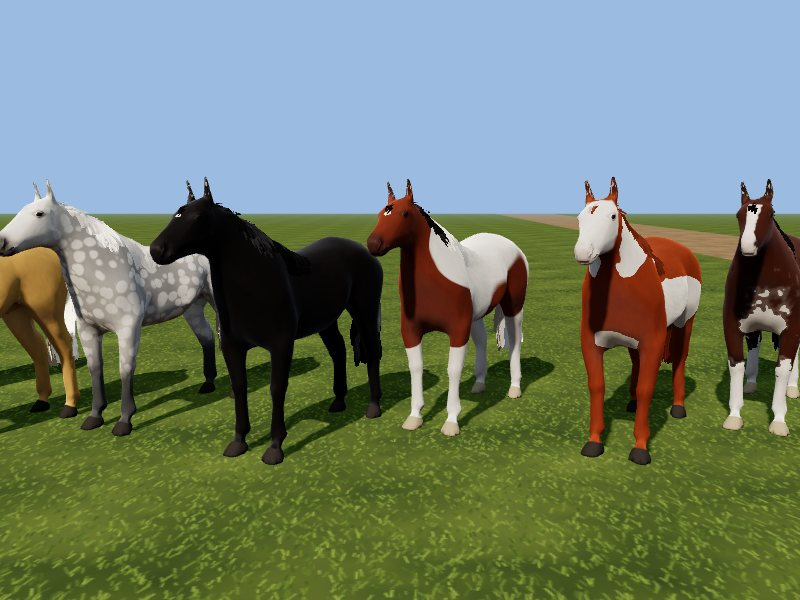
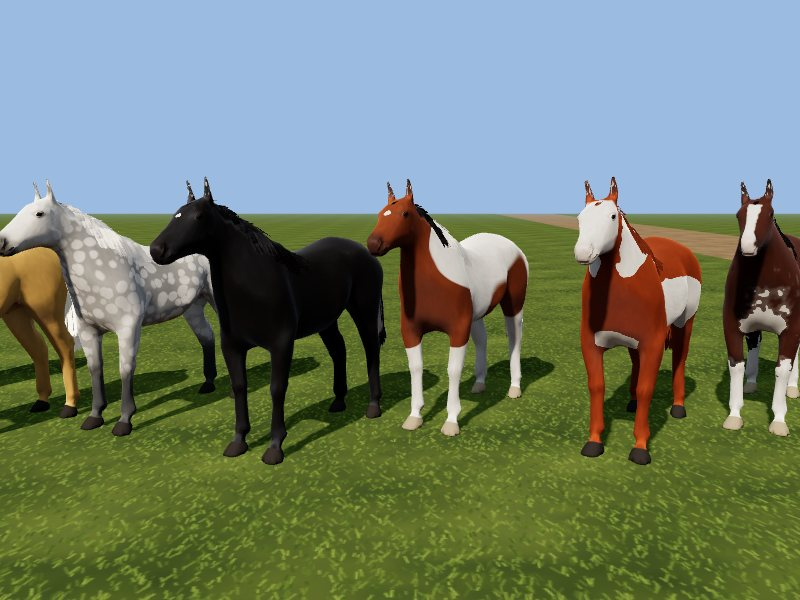
Horse Lab: soft-edged hair that really blends (alpha-to-coverage now works), a rooted mane, a full tail held off the rump, a forelock clear of the markings
Claude-Session: https://claude.ai/code/session_013cjWkL4PLa5o6fvGQ3D2Bo

diff --git a/mathwood-valley/labs/horse/hair.js b/mathwood-valley/labs/horse/hair.js
@@ -15,15 +15,17 @@ import * as THREE from 'three';
 import { COMMON, LIGHT_HOOK } from './coat.js';
 
 export const HAIR = {
-  // the mane: unbroken from just behind the ears to the withers, shortest at the poll and longest mid-neck, most of it
-  // down the near (left) side and some over to the far side, the roots sunk under the skin of the crest
-  mane: { cards: 28, rows: 6, length: 0.42, width: [0.11, 0.12], lift: [-0.012, 0.03], farShare: 0.12 },
-  crest: { cards: 12, rows: 3, length: 0.08, width: [0.09, 0.09], lift: [-0.01, 0.012] },   // a short fringe on the far side
-  forelock: { cards: 4, rows: 5, length: 0.2, width: [0.05, 0.014], lift: [-0.006, 0.008] },   // tapered, to about eye level, lying on the forehead
-  // the tail: a cone from the dock to the middle of the hind cannons, crossed strips through its middle and a fan round it
-  tail: { cards: 18, crossed: 3, rows: 9, end: 0.32, width: [0.06, 0.17], radius: [0.025, 0.15] },
+  // the mane: rooted on one line along the top of the neck (the crest, smoothed), 1.5 cm inside the skin, from just
+  // behind the ears to the withers, neighbours overlapping by well over half; shortest at the poll and longest mid-neck;
+  // most of it down the near (left) side, some over to the far side. Narrow at the root, widest a third of the way down
+  mane: { cards: 34, rows: 6, length: 0.42, width: [0.115, 0.085], lift: [-0.015, 0.028], farShare: 0.1 },
+  crest: { cards: 10, rows: 3, length: 0.08, width: [0.09, 0.08], lift: [-0.012, 0.01] },   // a short fringe on the far side
+  forelock: { cards: 3, rows: 4, length: 0.12, width: [0.04, 0.022] },                       // short, off the face, fading out
+  // the tail: a bundle of cards crossed round its middle line (full from every angle) and a light fan round it, held off
+  // the rump, narrow at the dock and fanning a little toward the end, which reaches the middle of the hind cannons
+  tail: { crossed: 4, fan: 8, rows: 9, end: 0.36, radius: [0.035, 0.085, 0.115], off: 0.06 },
 };
-const KIND = { mane: 0, forelock: 1, tail: 2, crest: 3 };
+const KIND = { mane: 0, forelock: 1, tail: 2, crest: 3, tailFan: 2.25 };   // (the fan: a tail card, drawn lighter)
 const V = (x, y, z) => new THREE.Vector3(x, y, z);
 
 // the nearest corner of the body to a point (a grid of 4 cm cells)
@@ -112,7 +114,8 @@ export function buildHair(shape) {
           if (under > 0) p.addScaledVector(n2, under);
         }
       }
-      rows.push({ c: p.clone(), n, v, w: cfg.width[0] + (cfg.width[1] - cfg.width[0]) * s });
+      // (narrow at the root, widest a third of the way down, a little narrower again at the tip)
+      rows.push({ c: p.clone(), n, v, w: (cfg.width[0] + (cfg.width[1] - cfg.width[0]) * s) * (0.3 + 0.7 * THREE.MathUtils.smoothstep(s, 0, 0.35)) });
     }
     const wave = (R() - 0.5) * 0.03 * sway, ph = R() * 6.28;
     rows.forEach((r, k) => {
@@ -124,51 +127,84 @@ export function buildHair(shape) {
     return rows;
   }
 
-  // THE MANE: along the crest from just behind the ears to the withers, unbroken (the strips overlap two or three deep),
-  // falling down the near (left) side, a few over to the far side, and a short fringe on the far side so the crest is
-  // covered from both sides. The roots start a little under the skin, so no strip shows where it begins.
+  // THE MANE: the crest line first (the top of the neck at each place along it, every centimetre, smoothed over 7 cm and
+  // set on the neck's middle), then the cards rooted on it, from just behind the ears to the withers
   const { neckO, neckA, neckL, up, midX, withersT } = shape;
   const rest = shape.rest, n = rest.length / 3, neckV = [];
   for (let v = 0; v < n; v++) {
     if (shape.W.legs[v] + shape.W.tail[v] > 0.3 || shape.W.ear[v] > 0.2 || Math.abs(rest[v * 3] - midX) > 0.04) continue;
-    const d = S.pos(v).sub(neckO), t = d.dot(neckA); if (t < withersT - 0.05 || t > neckL + 0.02) continue;
+    const d = S.pos(v).sub(neckO), t = d.dot(neckA); if (t < withersT - 0.08 || t > neckL + 0.02) continue;
     neckV.push([v, t, d.dot(up)]);
   }
-  const crestPoint = (t) => { let best = -1, bh = -9; for (const [v, tv, h] of neckV) if (Math.abs(tv - t) < 0.025 && h > bh) { bh = h; best = v; } return best; };
-  const tPoll = neckL - 0.035, tWith = withersT + 0.07, M = HAIR.mane;
+  const crestPoint = (t) => { let best = -1, bh = -9; for (const [v, tv, h] of neckV) if (Math.abs(tv - t) < 0.02 && h > bh) { bh = h; best = v; } return best; };
+  const raw = [];
+  for (let t = withersT - 0.05; t <= neckL; t += 0.01) { const v = crestPoint(t); if (v >= 0) raw.push([t, S.pos(v)]); }
+  const line = raw.map(([t], i) => {
+    const near = raw.slice(Math.max(0, i - 3), i + 4), p = near.reduce((acc, [, q]) => acc.add(q), V(0, 0, 0)).divideScalar(near.length);
+    p.x = midX; return [t, p];
+  });
+  const crestAt = (t) => {
+    if (t <= line[0][0]) return line[0][1].clone();
+    for (let i = 1; i < line.length; i++) if (line[i][0] >= t) { const [t0, p0] = line[i - 1], [t1, p1] = line[i]; return p0.clone().lerp(p1, (t - t0) / (t1 - t0)); }
+    return line[line.length - 1][1].clone();
+  };
+  const tPoll = neckL - 0.05, tWith = withersT + 0.07, M = HAIR.mane;
   for (let i = 0; i < M.cards; i++) {
-    const u = (i + (R() - 0.5) * 0.5) / (M.cards - 1), t = tPoll + (tWith - tPoll) * Math.min(1, Math.max(0, u)), v = crestPoint(t); if (v < 0) continue;
+    const u = Math.min(1, Math.max(0, (i + (R() - 0.5) * 0.4) / (M.cards - 1))), t = tPoll + (tWith - tPoll) * u;
     const far = R() < M.farShare ? -1 : 1;
-    const start = S.pos(v).addScaledVector(V(1, 0, 0), 0.006 * far);
     // shortest at the poll, longest mid-neck, a little shorter again at the withers
-    const uu = Math.min(1, Math.max(0, u));
-    const len = M.length * (0.12 + 0.88 * THREE.MathUtils.smoothstep(uu, 0, 0.42) * (1 - 0.32 * THREE.MathUtils.smoothstep(uu, 0.72, 1))) * (0.88 + 0.24 * R()) * (far < 0 ? 0.8 : 1);
-    card(drape(start, M, { side: far, push: 0.9, back: 0.1, len }), 'mane', skinBody);
+    const len = M.length * (0.12 + 0.88 * THREE.MathUtils.smoothstep(u, 0, 0.42) * (1 - 0.32 * THREE.MathUtils.smoothstep(u, 0.72, 1))) * (0.88 + 0.24 * R()) * (far < 0 ? 0.8 : 1);
+    card(drape(crestAt(t), M, { side: far, push: 0.9, back: 0.1, len }), 'mane', skinBody);
   }
   for (let i = 0; i < HAIR.crest.cards; i++) {
-    // (the fringe stops short of the withers, where the top line flattens and a strip would stand up off it)
-    const t = tPoll + (tWith + 0.12 - tPoll) * (i + 0.5) / HAIR.crest.cards, v = crestPoint(t); if (v < 0) continue;
-    card(drape(S.pos(v).addScaledVector(V(1, 0, 0), -0.004), HAIR.crest, { side: -1, push: 1.0, back: 0.1 }), 'crest', skinBody);
+    // (the fringe starts a little behind the poll and stops short of the withers, where the top line flattens)
+    const t = tPoll - 0.04 + (tWith + 0.12 - tPoll + 0.04) * (i + 0.5) / HAIR.crest.cards;
+    card(drape(crestAt(t), HAIR.crest, { side: -1, push: 1.0, back: 0.1 }), 'crest', skinBody);
   }
-  // THE FORELOCK: three or four tapered locks hanging from between the ears down the forehead to about eye level
+  // THE FORELOCK: two or three short locks from between the ears, angled off the face (not lying on it), down the
+  // forehead, fanning a little apart and fading out at their tips, short of the star
   const head = (v) => shape.W.head[v] > 0.5 && shape.W.ear[v] < 0.15;
-  const F = HAIR.forelock;
+  const F = HAIR.forelock, fa = shape.faceA, ff = shape.faceF;
   for (let i = 0; i < F.cards; i++) {
-    const dx = (i - (F.cards - 1) / 2) * 0.016;
-    const v = S.nearest(V(shape.mid0 + dx, shape.poll.y + 0.035, shape.poll.z + 0.06), head); if (v < 0) continue;
-    const rows = drape(S.pos(v), F, { side: Math.sign(dx) || 0.001, push: 0.04, back: -0.5, filter: head, len: F.length * (0.85 + 0.3 * R()), hang: false, sway: 0.25 });
+    const k = i - (F.cards - 1) / 2, v = S.nearest(V(shape.mid0 + k * 0.014, shape.poll.y + 0.03, shape.poll.z + 0.04), head); if (v < 0) continue;
+    const root = S.pos(v).addScaledVector(S.nor(v), -0.008);
+    const dir = fa.clone().multiplyScalar(Math.cos(0.42)).addScaledVector(ff, Math.sin(0.42)).addScaledVector(V(1, 0, 0), k * 0.18).normalize();
+    const across = new THREE.Vector3().crossVectors(ff, dir).normalize(), L = F.length * (0.85 + 0.3 * R()), rows = [];
+    for (let j = 0; j < F.rows; j++) {
+      const s2 = j / (F.rows - 1);
+      const c = root.clone().addScaledVector(dir, L * s2).addScaledVector(V(0, -1, 0), 0.025 * s2 * s2);
+      rows.push({ c, n: ff.clone(), across, v, w: F.width[0] + (F.width[1] - F.width[0]) * s2 });
+    }
     card(rows, 'forelock', skinBody);
   }
 
-  // THE TAIL: a cone from inside the dock to the middle of the hind cannons: strips crossed through its middle and a fan
-  // of strips round it, all hanging down the tail's chain of bones and on below its last bone; skinned along the chain
+  // THE TAIL: a bundle down the tail's chain of bones and on below its last bone to the middle of the hind cannons. Its
+  // middle line is held behind the rump (the buttock's back, measured from the mesh at each height, plus a gap), narrow
+  // at the dock and fanning a little toward the end. Cards crossed round the middle line make it full from every angle; a
+  // light fan of cards round the outside softens its outline. Skinned along the chain.
   const B = shape.bones, chainNames = ['Tail1', 'Tail2', 'Tail3', 'Tail4', 'Tail5', 'Tail6', 'Tail7'].filter((nm) => B[nm]);
   const chain = chainNames.map((nm) => B[nm].clone()), last = chain[chain.length - 1];
-  const end = V(last.x, Math.min(HAIR.tail.end, last.y - 0.1), last.z - 0.04);
-  const pts = [...chain, end], cum = [0];
+  const T = HAIR.tail, X = V(1, 0, 0);
+  const end = V(last.x, Math.min(T.end, last.y - 0.1), last.z - 0.04);
+  // the back of the rump at a height: the backmost body corner near the middle (not the tail's own), over the hindquarters
+  const rumpAt = (y) => {
+    let zmin = Infinity;
+    for (let v = 0; v < n; v++) {
+      if (shape.W.tail[v] > 0.2 || Math.abs(rest[v * 3] - midX) > 0.1 || Math.abs(rest[v * 3 + 1] - y) > 0.03 || rest[v * 3 + 2] > -0.3) continue;
+      zmin = Math.min(zmin, rest[v * 3 + 2]);
+    }
+    return zmin;
+  };
+  const rad = (a) => (a < 0.5 ? T.radius[0] + (T.radius[1] - T.radius[0]) * THREE.MathUtils.smoothstep(a, 0, 0.5) : T.radius[1] + (T.radius[2] - T.radius[1]) * (a - 0.5) * 2);
+  const pts = [...chain, end].map((p, i, arr) => {
+    const a = i / (arr.length - 1), q = p.clone(), rz = rumpAt(q.y);
+    if (Number.isFinite(rz)) q.z = Math.min(q.z, q.z + (rz - T.off - rad(a) * 0.7 - q.z) * THREE.MathUtils.smoothstep(a, 0.12, 0.35));
+    return q;
+  });
+  const cum = [0];
   for (let i = 1; i < pts.length; i++) cum.push(cum[i - 1] + pts[i].distanceTo(pts[i - 1]));
   const total = cum[cum.length - 1];
-  const at = (s) => {   // a place along the chain, 0..1: point, direction, and the bones round it
+  const at = (s) => {   // a place along the (held off) chain, 0..1: point, direction, and the bones round it
     const d = s * total; let j = 0; while (j < pts.length - 2 && cum[j + 1] < d) j++;
     const f = Math.min(1, Math.max(0, (d - cum[j]) / (cum[j + 1] - cum[j])));
     const p = pts[j].clone().lerp(pts[j + 1], f), dir = pts[j + 1].clone().sub(pts[j]).normalize();
@@ -176,40 +212,23 @@ export function buildHair(shape) {
     const sk = j + 1 < chainNames.length ? { i: [bi(j), bi(j + 1), 0, 0], w: [1 - f, f, 0, 0] } : { i: [bi(chainNames.length - 1), 0, 0, 0], w: [1, 0, 0, 0] };
     return { p, dir, sk };
   };
-  const X = V(1, 0, 0), T = HAIR.tail;
-  // the dock's own thickness (the tail's skin round its first bones), so the strips grow from its surface and cover it
-  const dockR = (() => {
-    const ds = [], a = B.Tail1, b = B.Tail3 || B.Tail2, ab = b.clone().sub(a), L2 = ab.lengthSq();
-    for (let v = 0; v < n; v++) {
-      if (shape.W.tail[v] < 0.5) continue;
-      const p = S.pos(v), t = Math.min(1, Math.max(0, p.clone().sub(a).dot(ab) / L2));
-      ds.push(p.distanceTo(a.clone().addScaledVector(ab, t)));
-    }
-    ds.sort((x, y) => x - y);
-    return ds.length ? ds[Math.floor(ds.length * 0.6)] : T.radius[0];
-  })();
-  const r0 = Math.max(T.radius[0], dockR * 0.95);
   const tailCard = (phi, s0, crossed, endJit, wJit) => {
     const rows = [], N = T.rows;
     for (let k = 0; k < N; k++) {
       const a = k / (N - 1), s = s0 + (1 - s0) * a * endJit, P = at(s);
       let b1 = new THREE.Vector3().crossVectors(P.dir, X).normalize(); if (b1.z > 0) b1.negate();   // (pointing away from the rump)
       const radial = b1.clone().multiplyScalar(Math.cos(phi)).addScaledVector(X, Math.sin(phi));
-      const r = r0 + (T.radius[1] - r0) * Math.pow(a, 0.85);
-      // a crossed strip lies through the middle (as wide as the cone); a fan strip lies round its outside
-      const c = crossed ? P.p.clone() : P.p.clone().addScaledVector(radial, r * 0.8);
+      const r = rad(s);
+      // a crossed card lies through the middle, as wide as the bundle; a fan card lies round its outside
+      const c = crossed ? P.p.clone() : P.p.clone().addScaledVector(radial, r * 0.85);
       const across = crossed ? radial.clone() : new THREE.Vector3().crossVectors(radial, P.dir).normalize();
-      const w = crossed ? r * 1.9 : (T.width[0] + (T.width[1] - T.width[0]) * a) * wJit;
+      const w = crossed ? r * 2 : r * 1.1 * wJit;
       rows.push({ c, n: crossed ? b1 : radial, across, w, sk: P.sk, axis: P.p.clone() });
     }
-    card(rows, 'tail', (r) => r.sk);
+    card(rows, crossed ? 'tail' : 'tailFan', (r) => r.sk);
   };
-  for (let i = 0; i < T.crossed; i++) tailCard(i * Math.PI / T.crossed, 0.03 + 0.03 * R(), true, 0.97 + 0.03 * R(), 1);
-  for (let i = 0; i < T.cards; i++) {
-    // (the strips on the top of the tail start right at the root, to cover the dock; the rest a little further down)
-    const phi = -2.5 + 5.0 * (i + 0.3 + 0.4 * R()) / T.cards;
-    tailCard(phi, (Math.abs(phi) < 1.3 ? 0.0 : 0.04) + 0.1 * R(), false, 0.84 + 0.16 * R(), 0.85 + 0.3 * R());
-  }
+  for (let i = 0; i < T.crossed; i++) tailCard(i * Math.PI / T.crossed + 0.2, 0.0, true, 0.96 + 0.04 * R(), 1);
+  for (let i = 0; i < T.fan; i++) tailCard(-Math.PI + 2 * Math.PI * (i + 0.5 + 0.3 * (R() - 0.5)) / T.fan, 0.05 + 0.1 * R(), false, 0.85 + 0.15 * R(), 0.85 + 0.3 * R());
 
   const g = new THREE.BufferGeometry();
   g.setAttribute('position', new THREE.Float32BufferAttribute(out.pos, 3));
@@ -271,6 +290,7 @@ uniform float uTime;
 uniform float uSpeed;
 uniform vec3 uBackW;
 uniform vec3 uDockW;      // where the tail's root is, in the world, this frame (the tail bends about it)
+uniform vec3 uDockR;      // ... and at rest, in the horse's own space
 uniform mat4 uRestM;
 varying vec4 vHairV;
 varying vec3 vRootR;
@@ -308,12 +328,18 @@ vec4 hairW = modelMatrix * vec4( transformed, 1.0 );
     vec3 v = hairW.xyz - uDockW;
     vec3 va = axisW - uDockW;
     vec3 dir = normalize( va + vec3( 0.0, -0.0001, 0.0 ) );
-    vec3 target = normalize( vec3( 0.0, -1.0, 0.0 ) + uBackW * ( 0.12 + spd * 0.1 ) );
+    // standing and walking, toward hanging (a little back); galloping, toward streaming back (a little down), the root
+    // lifted with it: the turn reaches further up the tail the faster it goes
+    // (standing or walking the turn aims at the tail's own resting way, as it hangs clear of the rump in the model, so a
+    // clip that already lets it hang changes nothing)
+    float run = smoothstep( 2.5, 8.0, spd );
+    vec3 hangW = normalize( mat3( modelMatrix ) * ( aRoot - uDockR ) + vec3( 0.0, -0.0001, 0.0 ) );
+    vec3 target = normalize( mix( hangW, uBackW + vec3( 0.0, -0.22, 0.0 ), run ) );
     vec3 k = cross( dir, target );
     float kl = length( k );
     if ( kl > 0.0001 ) {
       k /= kl;
-      float phi = acos( clamp( dot( dir, target ), -1.0, 1.0 ) ) * clamp( a * 1.3, 0.0, 1.0 ) * 0.8;
+      float phi = acos( clamp( dot( dir, target ), -1.0, 1.0 ) ) * clamp( a * 1.3 + run * 0.35, 0.0, 1.0 ) * mix( 0.8, 0.85, run );
       v = v * cos( phi ) + cross( k, v ) * sin( phi ) + k * dot( k, v ) * ( 1.0 - cos( phi ) );
     }
     hairW.xyz = uDockW + v;
@@ -325,7 +351,8 @@ vec4 hairW = modelMatrix * vec4( transformed, 1.0 );
   float len = mix( 0.32, 1.0, isTail );
   vec3 sideW = normalize( cross( sdW, vec3( 0.0, 1.0, 0.0 ) ) + vec3( 0.0001 ) );
   float wave = sin( uTime * ( 2.0 + 0.4 * spd ) - a * 4.5 + aHair.z * 6.2832 );
-  hairW.xyz += sideW * wave * a2 * len * ( 0.025 + 0.01 * spd ) * mix( 0.35, 1.0, isTail );
+  hairW.xyz += sideW * wave * a2 * len * ( 0.022 + 0.006 * spd ) * mix( 0.35, 1.0, isTail );
+  hairW.xyz += vec3( 0.0, 1.0, 0.0 ) * wave * a2 * len * 0.012 * smoothstep( 2.5, 8.0, spd ) * isTail;   // (a streaming tail also lifts and falls)
 }
 vec4 mvPosition = viewMatrix * hairW;
 gl_Position = projectionMatrix * mvPosition;
@@ -346,11 +373,18 @@ float hv = hAlong / hLen;                                   // (a shorter mane: 
 // (the picture's strands thin out toward its bottom: a tail uses its fuller top part, so it stays full to its end,
 // which the strip's own length and a ragged cut decide)
 vec4 tx = texture2D( uHairTex, vec2( vHairV.y * 0.6 + vHairV.z * 5.37, min( hv, 1.0 ) * mix( 0.88, 0.6, hTail ) ) );
-float hEdge = smoothstep( 0.0, 0.35, vHairV.y ) * ( 1.0 - smoothstep( 0.65, 1.0, vHairV.y ) );   // (the strip's sides thin out: no straight edges)
+float hEdge = smoothstep( 0.0, 0.3, vHairV.y ) * ( 1.0 - smoothstep( 0.7, 1.0, vHairV.y ) );   // (the card's sides thin out: no straight edges)
+float hFore = step( 0.5, vHairV.w ) * step( vHairV.w, 1.5 );
+float hFan = step( 2.1, vHairV.w ) * step( vHairV.w, 2.4 );
 float hPx = length( vViewPosition ) * uPx;
 float hA = tx.a * mix( 1.0, hEdge, 0.9 + 0.1 * hAlong ) * ( 1.0 - smoothstep( 0.8 + 0.17 * tx.r, 1.0, hv ) );
+hA *= smoothstep( 0.0, mix( 0.16, 0.05, hTail ), hAlong );                 // (and fade in from the root: no straight top edge)
+hA *= 1.0 - hFore * smoothstep( 0.35, 1.0, hAlong );                      // (the forelock fades out toward its tips)
+hA *= 1.0 - 0.35 * hFan;                                                   // (the tail's outer fan: lighter)
 hA = clamp( hA * ( 1.0 + 2.0 * smoothstep( 0.002, 0.02, hPx ) ), 0.0, 1.0 );   // (far off, the picture's smaller copies thin the hair out: thicken it back)
-diffuseColor.a = hA;
+// a smooth ramp, not a hard cut: alpha to coverage turns it into a dithered, soft edge
+float hairAlpha = smoothstep( 0.12, 0.62, hA );
+diffuseColor.a = hairAlpha;
 // the colour: the recipe's, strand by strand (from the picture), darker at the roots and lighter at the tips
 float hStrand = tx.r;
 vec3 hc = uManeCol * ( 1.0 + uHair.z * ( hStrand - 0.6 ) * 1.3 );
@@ -392,8 +426,8 @@ const HAIR_FRAG_NORMAL = /* glsl */`
 `;
 
 export function hairMaterial(shape, coatU, renderer) {
-  const u = { ...coatU, uHairTex: { value: hairTexture(renderer) }, uTime: { value: 0 }, uSpeed: { value: 0 }, uBackW: { value: new THREE.Vector3(0, 0, -1) }, uDockW: { value: new THREE.Vector3() } };
-  const m = new THREE.MeshStandardMaterial({ side: THREE.DoubleSide, alphaTest: 0.35, roughness: 0.55, metalness: 0 });
+  const u = { ...coatU, uHairTex: { value: hairTexture(renderer) }, uTime: { value: 0 }, uSpeed: { value: 0 }, uBackW: { value: new THREE.Vector3(0, 0, -1) }, uDockW: { value: new THREE.Vector3() }, uDockR: { value: (shape.bones.Tail1 || shape.bones.Tail2).clone() } };
+  const m = new THREE.MeshStandardMaterial({ side: THREE.DoubleSide, alphaTest: 0.04, roughness: 0.55, metalness: 0 });
   m.alphaToCoverage = true;
   m.name = 'hair';
   m.onBeforeCompile = (sh) => {
@@ -407,7 +441,10 @@ export function hairMaterial(shape, coatU, renderer) {
       .replace('#include <lights_physical_pars_fragment>', LIGHT_HOOK)
       .replace('#include <color_fragment>', '#include <color_fragment>\n' + HAIR_FRAG_COLOR)
       .replace('#include <roughnessmap_fragment>', '#include <roughnessmap_fragment>\nroughnessFactor = furRough;')
-      .replace('#include <normal_fragment_begin>', HAIR_FRAG_NORMAL);
+      .replace('#include <normal_fragment_begin>', HAIR_FRAG_NORMAL)
+      // (three.js sets an opaque material's alpha to 1 just before writing it, which would leave alpha to coverage
+      // nothing to work with: put the hair's own back)
+      .replace('#include <opaque_fragment>', '#include <opaque_fragment>\ngl_FragColor.a = hairAlpha;');
   };
   m.customProgramCacheKey = () => 'horsehair:' + shape.key;
   m.hair = { uniforms: u };

diff --git a/mathwood-valley/labs/horse/coat.js b/mathwood-valley/labs/horse/coat.js
@@ -148,7 +148,10 @@ export function prepareHorse(scene, scale) {
   for (let i = 0; i < n; i++) {
     const t = tA[i], h = hA[i];
     if (W.legs[i] + W.tail[i] > 0.3 || W.ear[i] > 0.2 || t < withersT - 0.08 || t > neckL + 0.05 || rest[i * 3 + 2] < legSplit) continue;
-    const band = BAND * sstep(t, withersT - 0.06, withersT + 0.22) * (1 - (sculptedHair ? 0.35 : 0.7) * sstep(t, neckL - 0.25, neckL)) * (sculptedHair ? 1 : 1 - sstep(t, neckL - 0.04, neckL));
+    // (hair cards: a band of hair colour under the mane, wider down the near side where it falls, so a gap between the
+    // cards shows hair, not coat)
+    const side = sculptedHair ? 1 : 0.85 + 1.15 * sstep(rest[i * 3] - midX, -0.02, 0.03);
+    const band = BAND * side * sstep(t, withersT - 0.06, withersT + 0.22) * (1 - (sculptedHair ? 0.35 : 0.2) * sstep(t, neckL - 0.25, neckL)) * (sculptedHair ? 1 : 1 - sstep(t, neckL - 0.05, neckL - 0.01));
     if (band < 0.005) continue;
     const c = crestAt(t), d = c - h;                 // how far below the crest
     const m = 1 - sstep(d, band - 0.015, band + 0.015);
@@ -304,6 +307,7 @@ float furFineFade = 1.0;
 float furMedFade = 1.0;
 float furHairN = 0.5;        // the fine streak noise here (white edges break up hair by hair)
 float furEdge = 0.0;         // 1: the hair highlight sits toward the outline (the short coat), 0: everywhere (long hair)
+float furBroad = 0.0;        // a soft, broad band of sheen along the hair over the whole coat
 SHAPE_CONSTANTS
 const float FINE_F = 380.0;   // fine hair streaks: about 2.6 mm across ...
 const float FINE_S = 4.5;     // ... and 4.5 times as long
@@ -370,7 +374,7 @@ float faceWhite( vec3 p, vec3 n ) {
   if ( uFace.w > 0.5 || ( uFace.x > 0.5 && uFace.x < 2.5 ) ) {
     vec2 q = vec2( s, ( t - 0.4 ) * FACE_L ) / ( 0.04 * sz );
     float r = mix( length( q ), ( abs( q.x ) + abs( q.y ) ) * 0.82, 0.45 );
-    star = ( 1.0 - smoothstep( 0.78, 1.0, r + rag * 0.9 + hairy / ( 0.04 * sz ) ) ) * facing;
+    star = ( 1.0 - smoothstep( 0.72, 1.02, r + rag * 0.45 + hairy * 0.35 / ( 0.04 * sz ) ) ) * facing;   // (a solid centre, a soft, slightly ragged edge)
   }
   float w = 0.0, t0 = 0.0, t1 = 0.0, edge = 0.008;
   if ( uFace.x > 1.5 && uFace.x < 2.5 ) { w = 0.015 * sz; t0 = 0.42; t1 = 0.84; edge = 0.005; }       // stripe
@@ -382,7 +386,8 @@ float faceWhite( vec3 p, vec3 n ) {
   else if ( uFace.x > 4.5 ) { w = 0.018 * sz; t0 = 0.88; t1 = 1.0; edge = 0.006; }                    // snip
   float band = 0.0;
   if ( w > 0.0 ) {
-    band = ( 1.0 - smoothstep( w - edge, w + edge, s + rag * w * 0.8 + hairy ) )
+    float small = clamp( w / 0.04, 0.3, 1.0 );                              // (a narrow stripe or a snip: less raggedness, so it stays whole)
+    band = ( 1.0 - smoothstep( w - edge, w + edge, s + rag * w * 0.8 * small + hairy * small ) )
          * smoothstep( t0 - 0.03, t0 + 0.03, t + rag * 0.05 ) * ( 1.0 - smoothstep( t1 - 0.03, t1 + 0.02, t ) ) * facing;
   }
   return max( star, band );
@@ -471,6 +476,9 @@ vec3 furDirect( vec3 L, vec3 V, vec3 N, vec3 color, vec3 albedo ) {
   float kk = pow( sqrt( max( 0.0, 1.0 - th * th ) ), furShinePow );
   float edge = mix( 1.0, 0.2 + 1.6 * pow( 1.0 - nv, 1.5 ), furEdge );
   vec3 shine = color * saturate( nl ) * kk * furShine * edge * tint;
+  // and a soft, broad band of it across the whole coat (so the muscles catch the light), not just toward the outline
+  float broad = pow( sqrt( max( 0.0, 1.0 - th * th ) ), 9.0 );
+  shine += color * saturate( nl ) * broad * furBroad * tint;
   return sheen + shine;
 }
 `;
@@ -631,6 +639,7 @@ furSheen = 0.6 * uFur.z * ( 1.0 - cHoof ) * ( 1.0 - 0.6 * cMuz );
 furShine = uFur.w * 0.36 * ( 1.0 - cHoof ) * ( 1.0 - cMuz * 0.7 ) * ( 0.7 + 0.6 * sFine );
 furShinePow = 40.0;
 furEdge = 1.0;
+furBroad = uFur.w * 0.11 * ( 1.0 - cHoof ) * ( 1.0 - cMuz * 0.6 ) * ( 0.8 + 0.4 * sMed );
 vec4 cDebug = vec4( 0.0 );
 if ( uMask > 0.5 ) {
   if ( uMask < 1.5 ) cDebug = vec4( cLegs + cHair * 0.8, cNeck + cHead + cTail * 0.6, cHQ + cMane * 0.9 + cHead, 1.0 );

diff --git a/mathwood-valley/labs/horse/recipes.js b/mathwood-valley/labs/horse/recipes.js
@@ -25,7 +25,7 @@ const BASE = { mane: '#16110e', points: 'none', belly: 0.6, sooty: 0.25, bloom: 
   bump: 1, streakColor: 1, sheen: 1, shine: 1, roots: 0.35, tips: 0.3, strands: 0.5, maneShine: 0.6, maneLength: 0.85, tailLength: 0.9 };
 
 export const PRESETS = {
-  bay: { label: 'Bay', game: 'bay', base: '#74361b', points: 'black', mane: '#15100d', face: 'star', faceSize: 0.7, sooty: 0.35, bloom: 0.6, seed: 3 },
+  bay: { label: 'Bay', game: 'bay', base: '#7a3f20', points: 'black', mane: '#15100d', face: 'star', faceSize: 0.7, sooty: 0.35, bloom: 0.6, seed: 3 },
   chestnut: { label: 'Chestnut', game: 'chestnut', base: '#a65a2a', mane: '#d6b47a', bloom: 0.5, face: 'blaze', legs: { FL: 'none', FR: 'none', HL: 'sock', HR: 'sock' },
     muzzle: 0.45, roots: 0.25, tips: 0.45, sooty: 0.12, seed: 11 },
   palomino: { label: 'Palomino', game: 'palomino', base: '#c99a52', mane: '#eee2c4', face: 'snip', muzzle: 0.75, belly: 0.35, sooty: 0.1, roots: 0.2, tips: 0.25, seed: 5 },
@@ -33,7 +33,7 @@ export const PRESETS = {
     muzzle: 0.85, belly: 0.1, sooty: 0, face: 'none', strands: 0.9, roots: 0.45, tips: 0.25, seed: 7 },
   midnight: { label: 'Midnight', game: 'midnight', base: '#1d1918', mane: '#110e0d', points: 'none', face: 'star', faceSize: 0.6, belly: 0.25, sooty: 0,
     muzzle: 0.5, shine: 1.3, seed: 9 },
-  tobiano: { label: 'Tobiano', game: 'bay', base: '#74361b', points: 'black', mane: '#15100d', pinto: 'tobiano', white: 0.3, face: 'star', faceSize: 0.8, seed: 21 },
+  tobiano: { label: 'Tobiano', game: 'bay', base: '#7a3f20', points: 'black', mane: '#15100d', pinto: 'tobiano', white: 0.3, face: 'star', faceSize: 0.8, seed: 21 },
   overo: { label: 'Overo', game: 'chestnut', base: '#8c4019', mane: '#6e3214', pinto: 'overo', white: 0.55, face: 'bald', muzzle: 0.5, seed: 4 },
   sabino: { label: 'Sabino', game: 'bay', base: '#4a2616', points: 'black', mane: '#120e0c', pinto: 'sabino', white: 0.3, roan: 0.7, face: 'blaze', faceSize: 1.15, seed: 8 },
 };
@@ -59,7 +59,7 @@ const jitter = (R, hex, amt) => {   // a shade lighter or darker, a touch warmer
 };
 // the coat colours, how common each is (weights), and what goes with them
 const COLOURS = {
-  bay: { w: 30, base: '#74361b', bloom: 0.5, points: 'black', mane: '#15100d' },
+  bay: { w: 30, base: '#7a3f20', bloom: 0.5, points: 'black', mane: '#15100d' },
   darkBay: { w: 14, base: '#4c2617', points: 'black', mane: '#120e0c', sooty: 0.3 },
   chestnut: { w: 24, base: '#a65a2a', mane: '#8a3f1a', muzzle: 0.45, bloom: 0.4 },
   flaxenChestnut: { w: 8, base: '#a65a2a', mane: '#d6b47a', muzzle: 0.45, tips: 0.45 },
